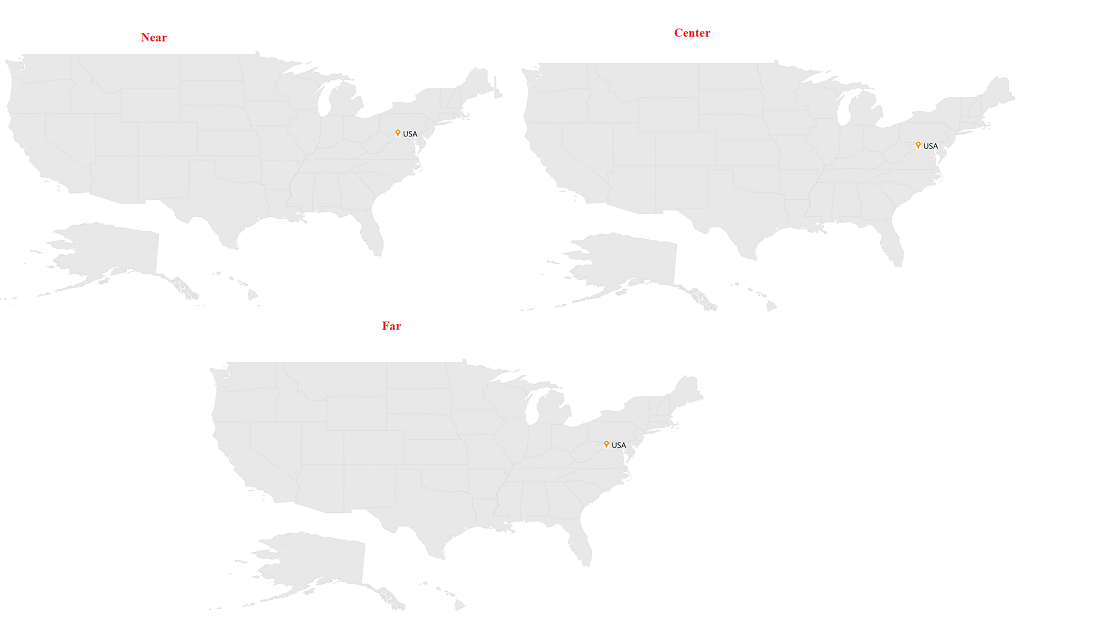
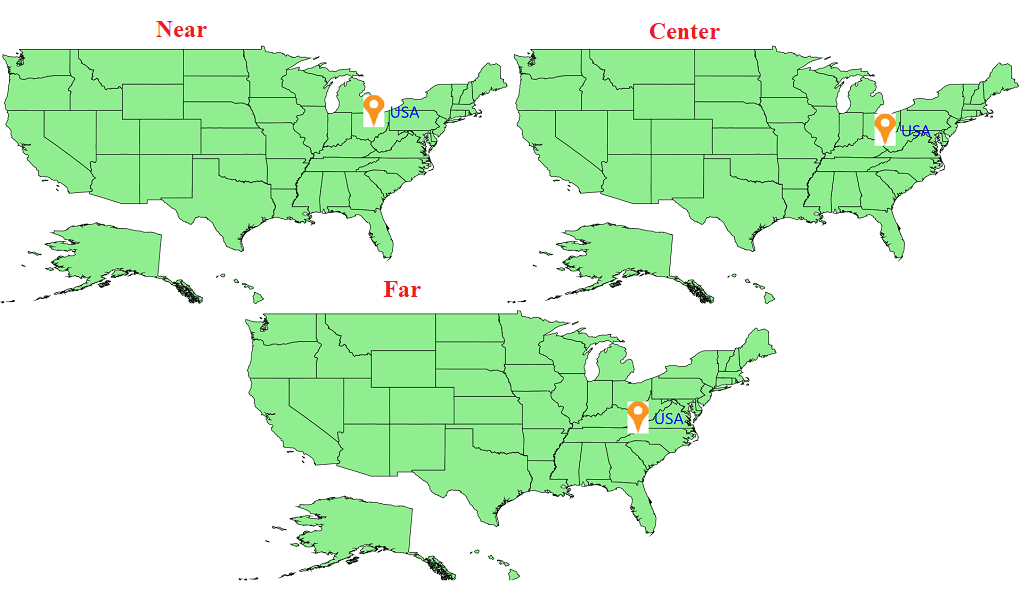
Change the content

diff --git a/wpf/Maps/Markers.md b/wpf/Maps/Markers.md
@@ -291,10 +291,14 @@ The `HorizontalAlignment` property is used to position the marker icon in x-axis
             SfMap maps = new SfMap();
             ShapeFileLayer shape = new ShapeFileLayer();
             shape.Uri = "Maps.ShapeFiles.usa_state.shp";
+            shape.MarkerTemplate = Resources["markerTemplate"] as DataTemplate;
             shape.Markers = view.Models;
-			shape.MarkerIconSize = new Size(30, 30);
-            shape.MarkerLabelFontSize = 30;
             shape.MarkerHorizontalAlignment = MarkerAlignment.Near;
+            ShapeSetting shapeSetting = new ShapeSetting();
+            shapeSetting.ShapeStrokeThickness = 1;
+            shapeSetting.ShapeStroke = new SolidColorBrush(Colors.Black);
+            shapeSetting.ShapeFill = new SolidColorBrush(Colors.LightGreen);
+            shape.ShapeSettings = shapeSetting;
             maps.Layers.Add(shape);
 
 {% endhighlight %}
@@ -315,14 +319,28 @@ The `VerticalAlignment` property is used to position the marker icon in y-axis. 
 
 {% highlight xaml %}
 
-        <Grid>
+        <ResourceDictionary>
+            <DataTemplate x:Key="markerTemplate">
+                <Grid>
+                    <StackPanel Margin="-12,-30,0,0" Height="50" Orientation="Horizontal">
+                        <Image Source="pin.png" Height="30" />
+                        <TextBlock HorizontalAlignment="Center" Foreground="Blue" VerticalAlignment="Center" Margin="10" FontSize="30" FontFamily="Segoe UI" Text="{Binding Label}"/>
+                    </StackPanel>
+                </Grid>
+            </DataTemplate>
+        </ResourceDictionary>
+         <Grid>
             <syncfusion:SfMap>
                 <syncfusion:SfMap.Layers>
-                    <syncfusion:ShapeFileLayer Uri="Maps.ShapeFiles.usa_state.shp" MarkerIconSize="30,30" MarkerLabelFontSize="30" MarkerVerticalAlignment="Near" Markers="{Binding Models}" >
+                    <syncfusion:ShapeFileLayer   MarkerTemplate="{StaticResource markerTemplate}"  Uri="Maps.ShapeFiles.usa_state.shp"  MarkerVerticalAlignment="Near" Markers="{Binding Models}"  >
+                        <syncfusion:ShapeFileLayer.ShapeSettings>
+                            <syncfusion:ShapeSetting ShapeFill="LightGreen" ShapeStroke="Black" ShapeStrokeThickness="1">
+                            </syncfusion:ShapeSetting>
+                        </syncfusion:ShapeFileLayer.ShapeSettings>
                     </syncfusion:ShapeFileLayer>
                 </syncfusion:SfMap.Layers>
             </syncfusion:SfMap>
-        </Grid>		
+        </Grid>
 
 {% endhighlight %}
 
@@ -331,10 +349,14 @@ The `VerticalAlignment` property is used to position the marker icon in y-axis. 
             SfMap maps = new SfMap();
             ShapeFileLayer shape = new ShapeFileLayer();
             shape.Uri = "Maps.ShapeFiles.usa_state.shp";
+            shape.MarkerTemplate = Resources["markerTemplate"] as DataTemplate;
             shape.Markers = view.Models;
-			shape.MarkerIconSize = new Size(30, 30);
-            shape.MarkerLabelFontSize = 30;
             shape.MarkerVerticalAlignment = MarkerAlignment.Near;
+            ShapeSetting shapeSetting = new ShapeSetting();
+            shapeSetting.ShapeStrokeThickness = 1;
+            shapeSetting.ShapeStroke = new SolidColorBrush(Colors.Black);
+            shapeSetting.ShapeFill = new SolidColorBrush(Colors.LightGreen);
+            shape.ShapeSettings = shapeSetting;
             maps.Layers.Add(shape);
 
 {% endhighlight %}
